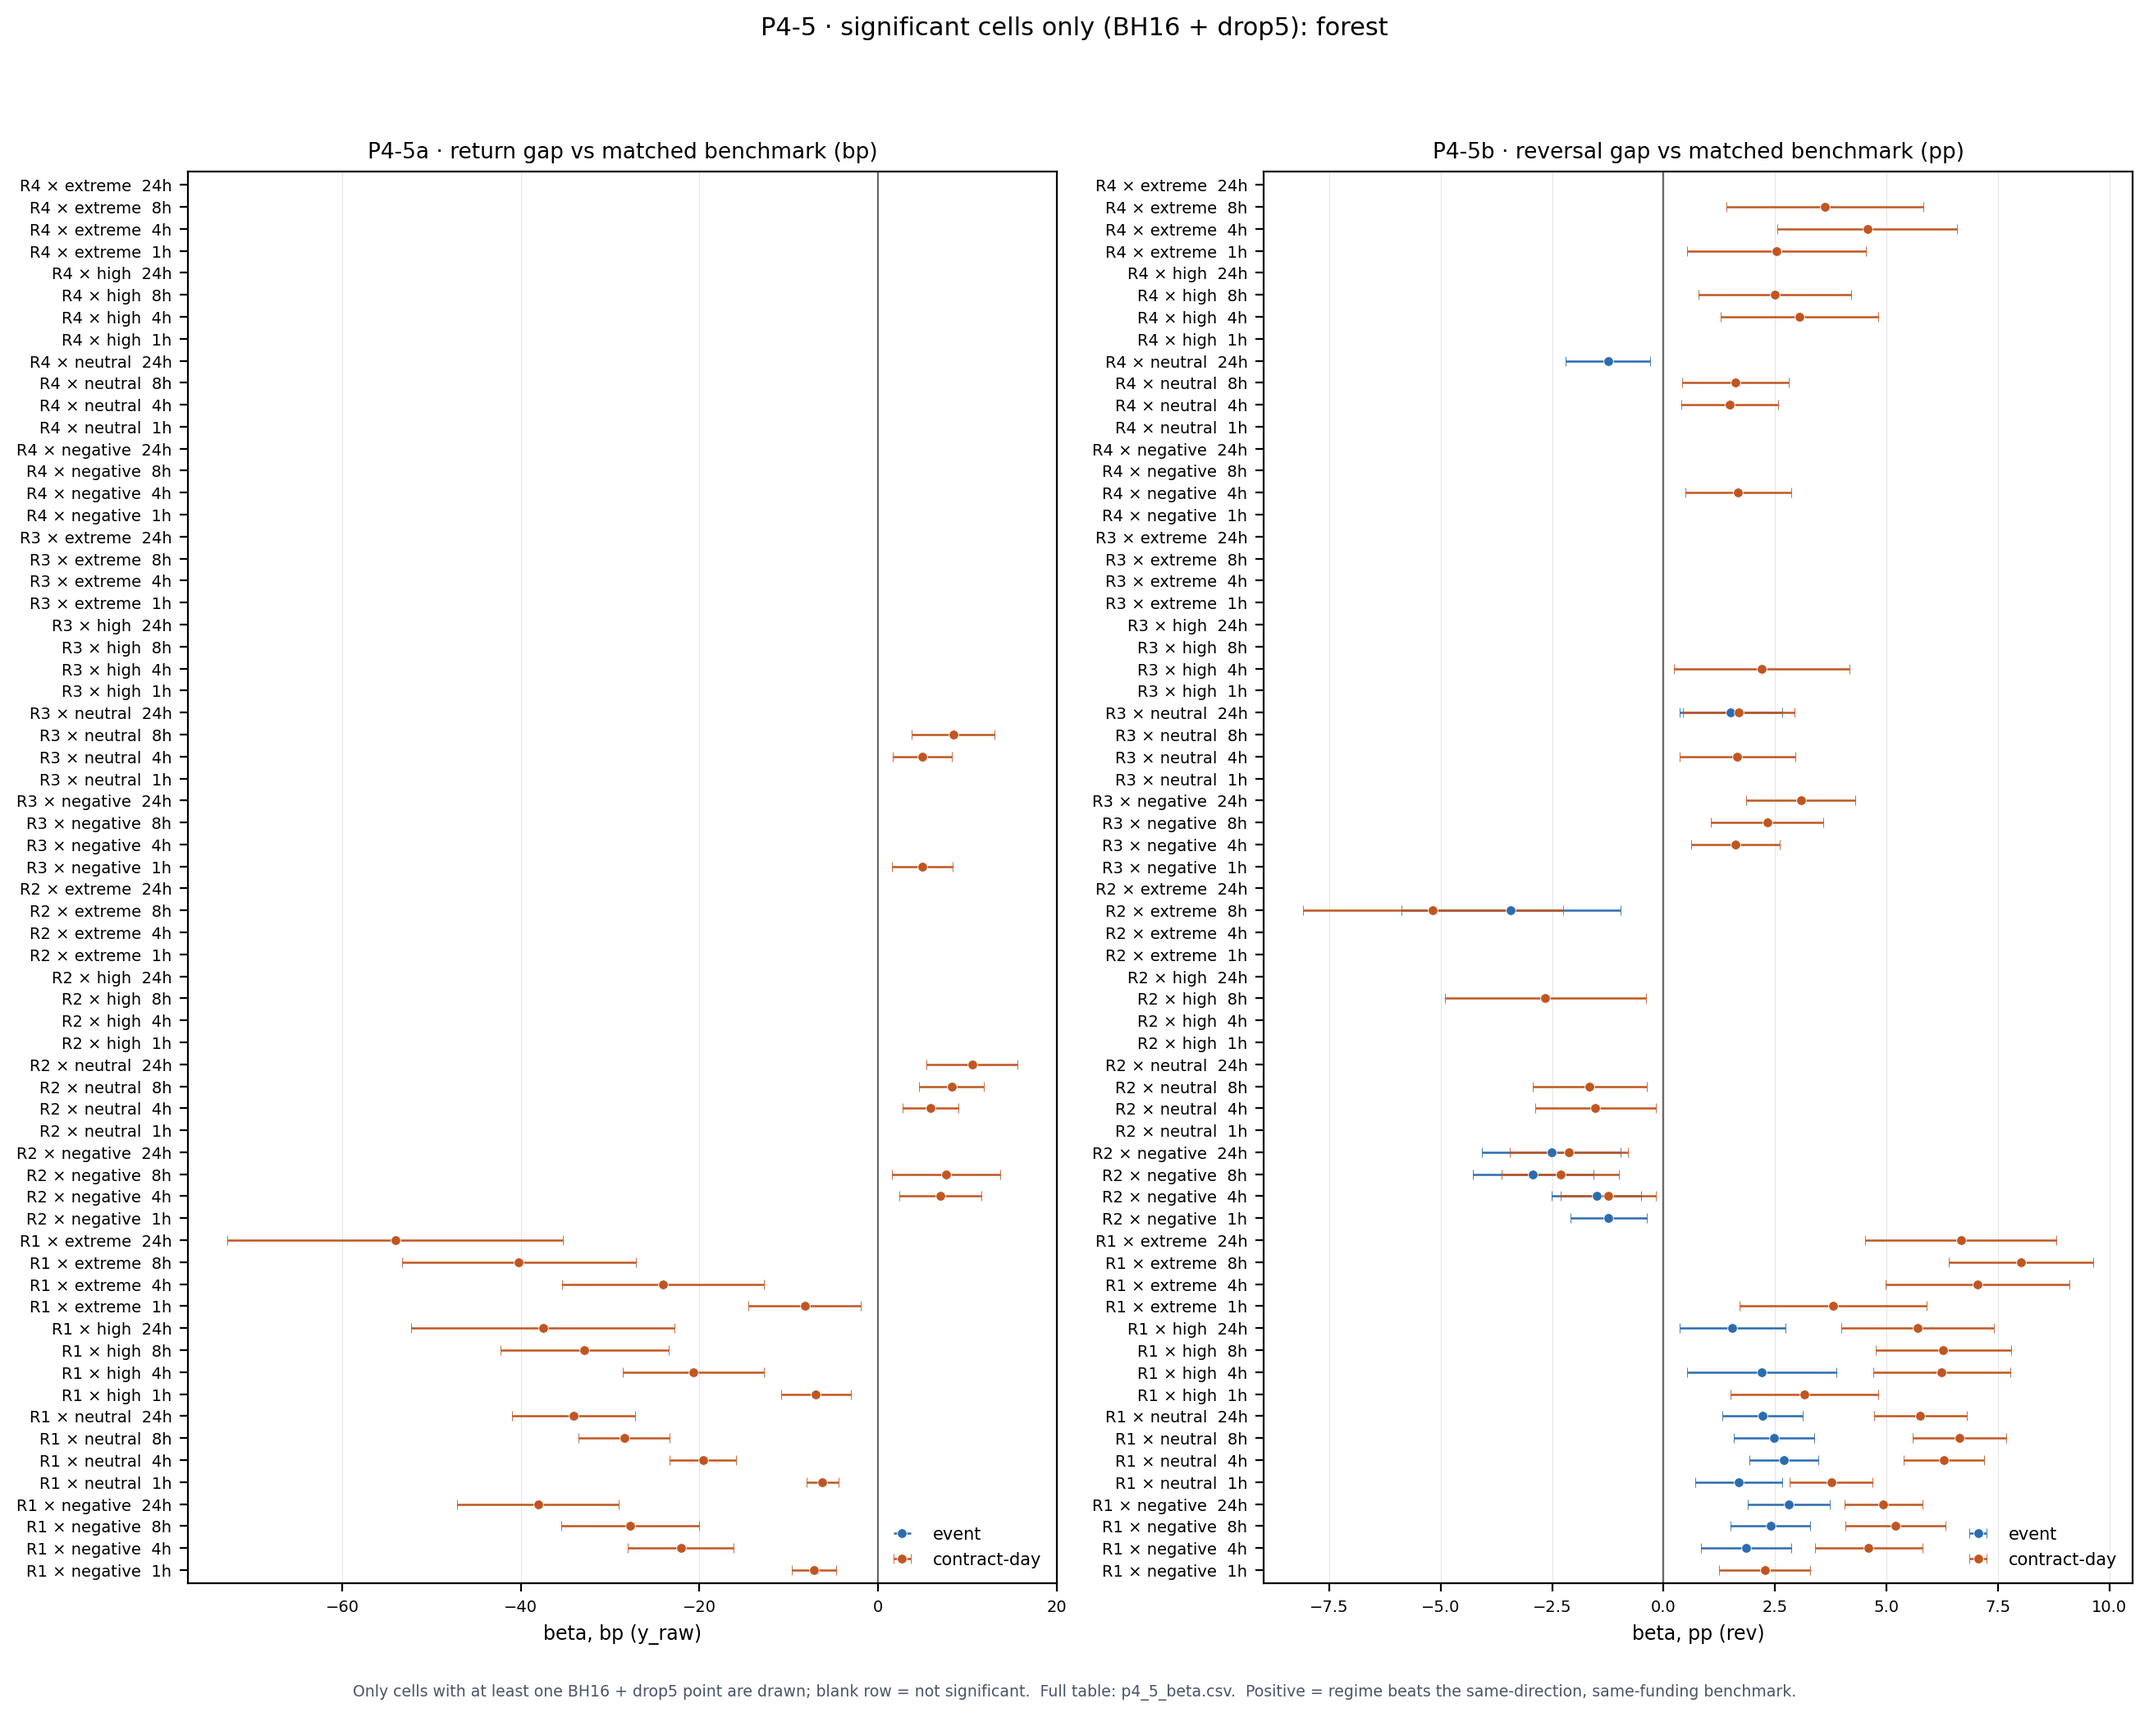
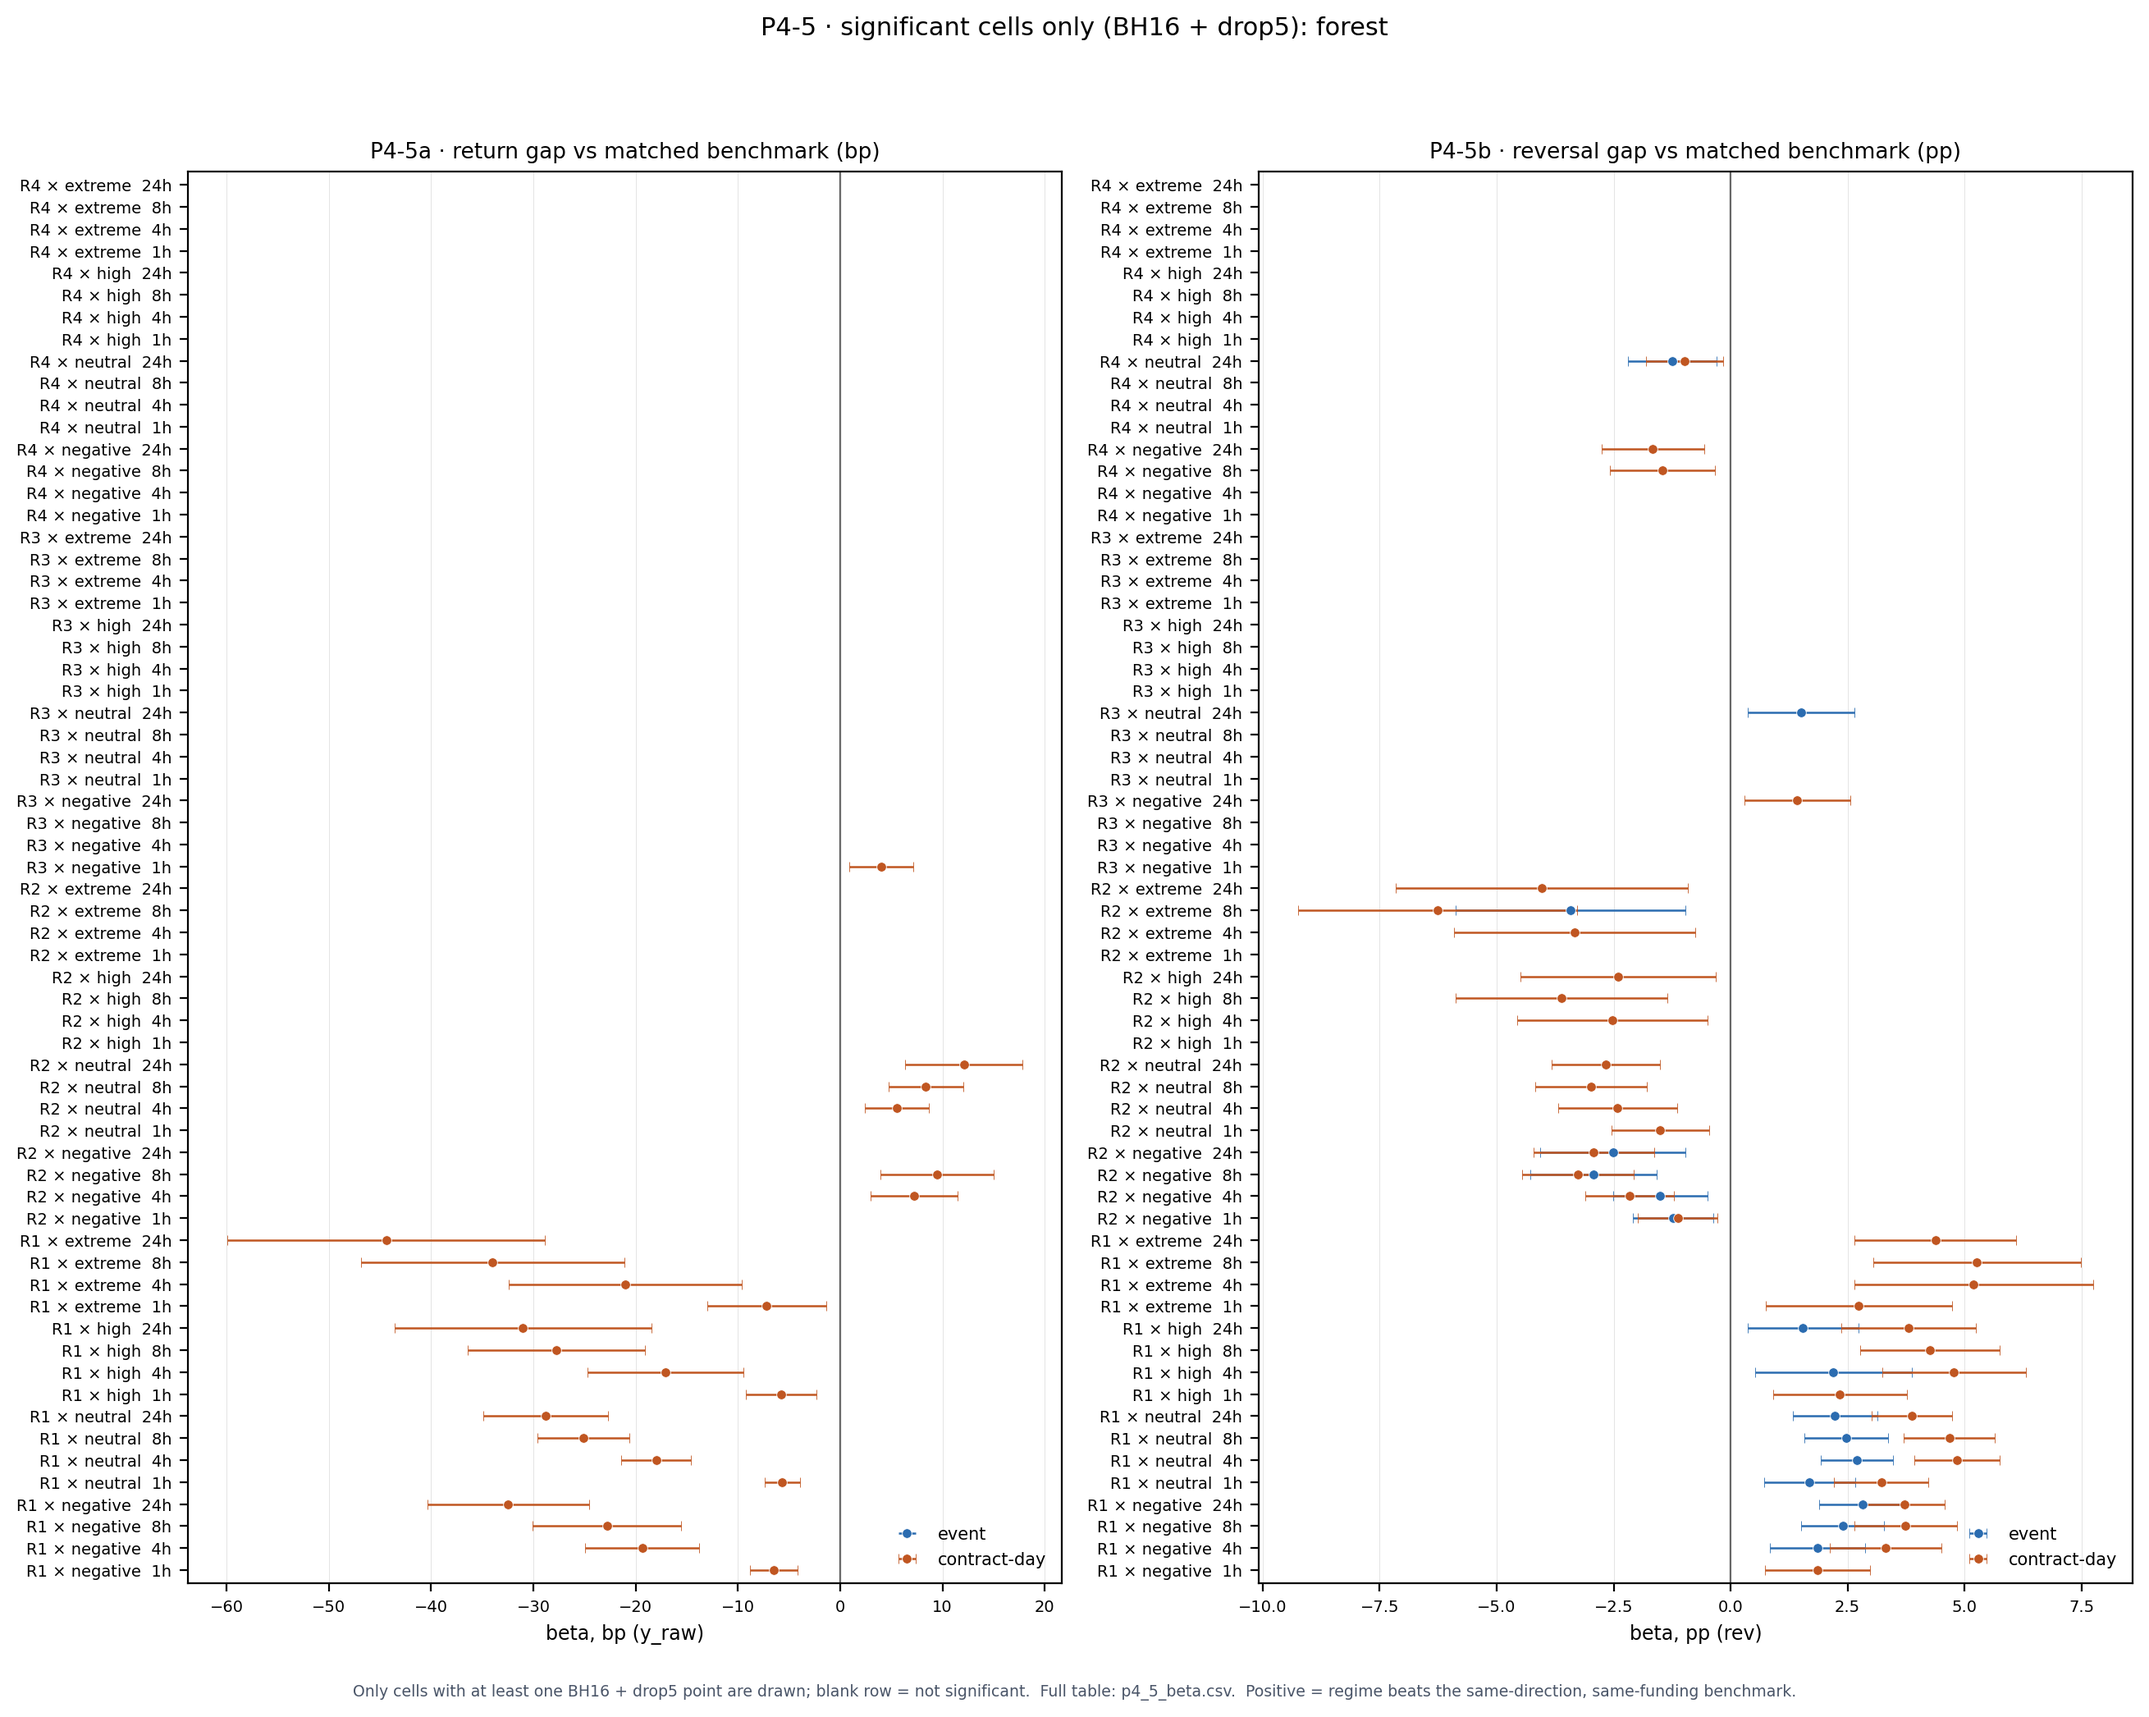
fix(p4): split P4-5 contract-day groups by dir
Benchmark groups no longer mix up/down days; 57.2% of cell-0 groups were two-direction. 89 validation checks.

diff --git a/phase4_funding/experiment/exp5.py b/phase4_funding/experiment/exp5.py
@@ -53,10 +53,10 @@ def obs_event(b: pd.DataFrame) -> pd.DataFrame:
 
 
 def obs_contract_day(b: pd.DataFrame) -> pd.DataFrame:
-    return (b.groupby(["sym", "day", "cell", "state"], as_index=False)
+    return (b.groupby(["sym", "day", "cell", "state", "dir"], as_index=False)
               .agg(y_raw=("y_raw", "mean"), fwd=("fwd", "mean"),
                    rev=("rev", "mean"), size=("y_raw", "size"),
-                   dir=("dir", "first"), month=("month", "first")))
+                   month=("month", "first")))
 
 
 def _drop5(y, treat, sym, mon, psi, n1):
